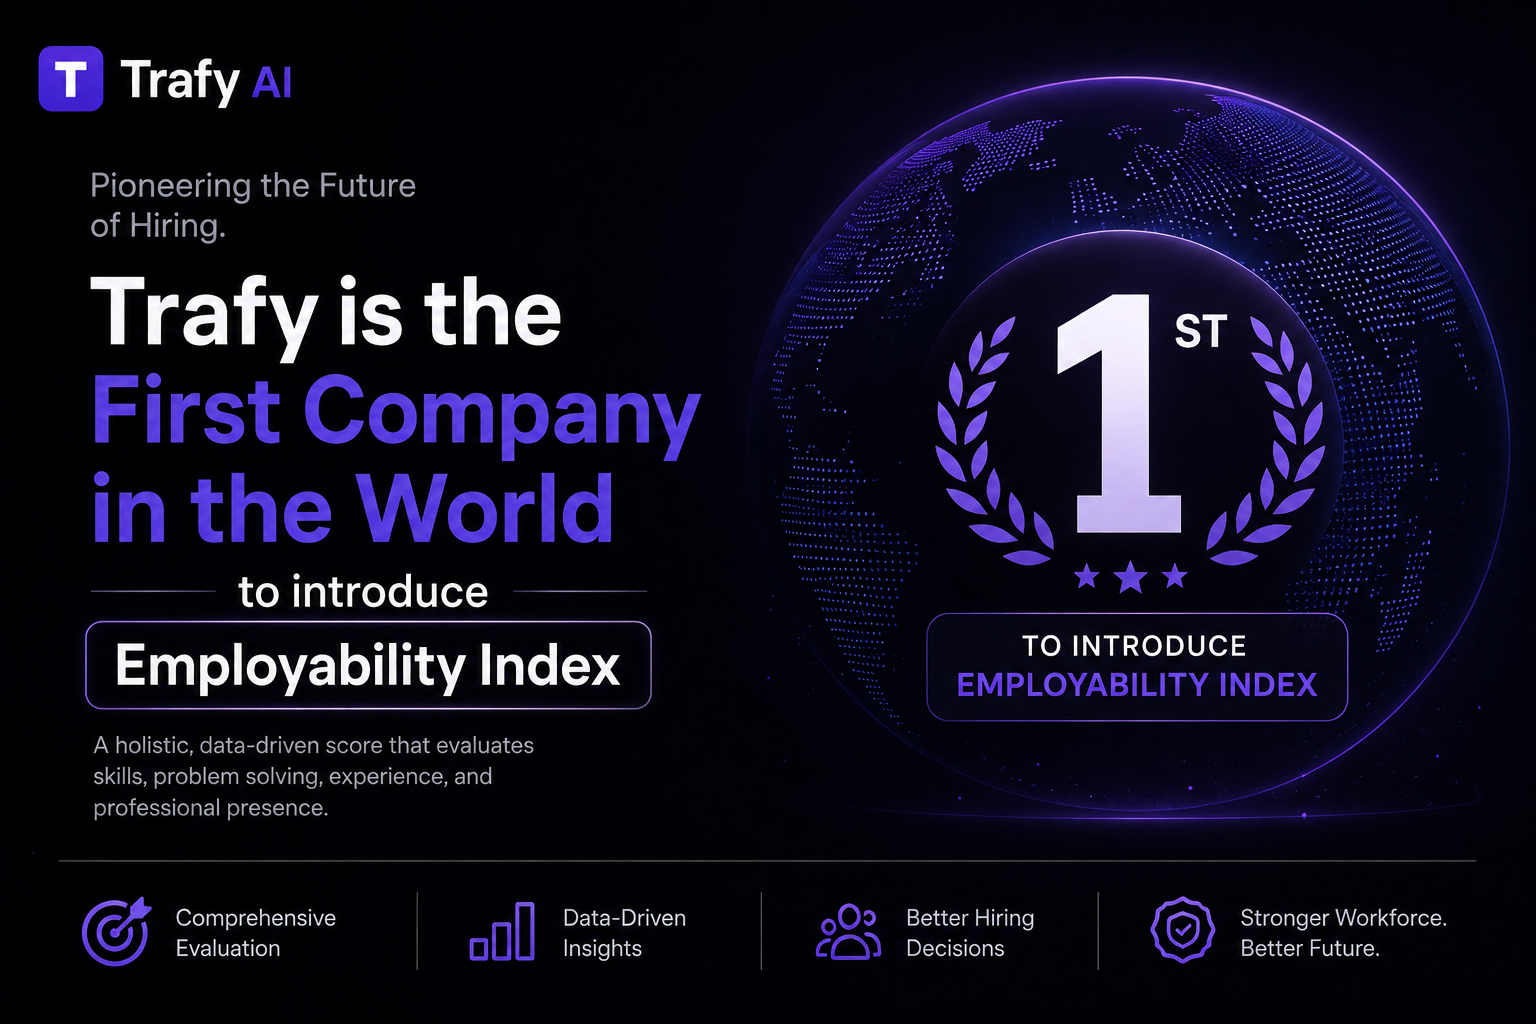
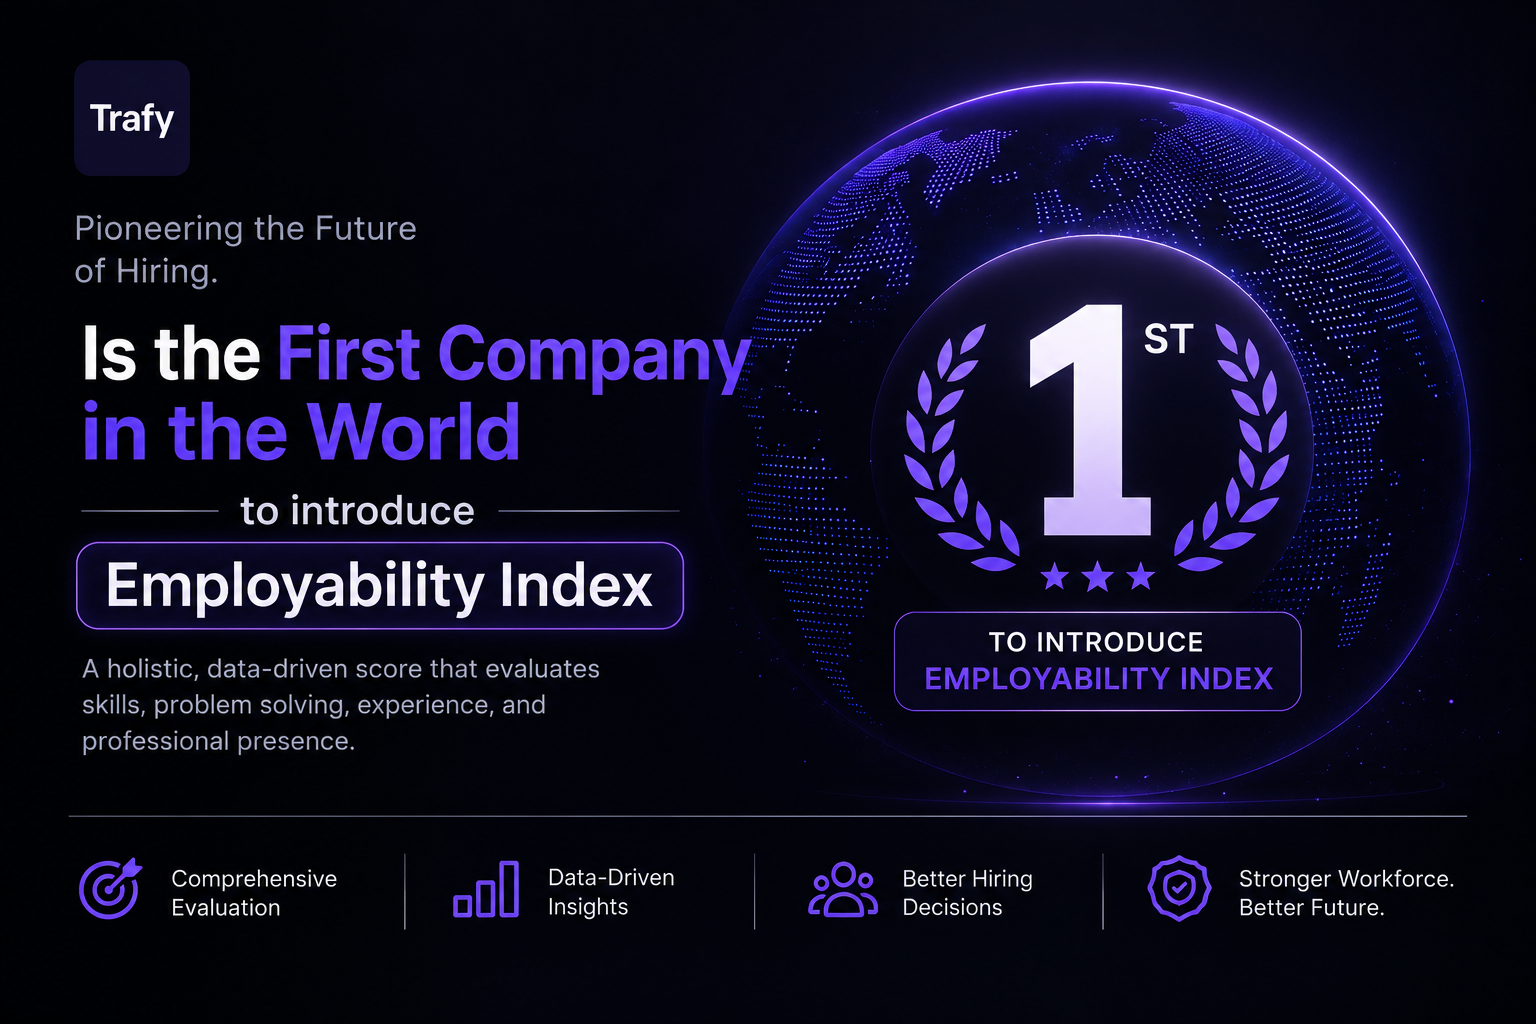
.

Changed region(s): [[0.0, 0.0312, 1.0, 0.9688], [0.5312, 0.8438, 0.6875, 0.9375], [0.2812, 0.8438, 0.4375, 0.9375]]

diff --git a/css/style.css b/css/style.css
@@ -289,9 +289,9 @@ section[id]{scroll-margin-top:88px}
 @media (max-width:900px){
   .hero{position:relative;height:auto;min-height:100vh;padding:130px 0 40px}
   .hero__grid{grid-template-columns:1fr;gap:32px}
-  .hero__right{align-items:flex-start}
-  .hero__strip{overflow-x:auto;max-width:100%;padding-bottom:6px}
-  .hero__thumb,.hero__thumb--active{width:96px}
+  .hero__right{align-items:stretch;width:100%}
+  .hero__strip{width:100%}
+  .hero__thumb,.hero__thumb--active{width:100%;height:auto;aspect-ratio:3/2}
 }
 @media (max-width:560px){
   .hero__actions{flex-direction:column;align-items:stretch}
@@ -394,7 +394,7 @@ section:not(.hero):not(.funding){padding:68px 0}
 
 .bento{
   position:relative;z-index:1;
-  display:grid;grid-template-columns:repeat(4,1fr);grid-template-rows:200px 180px;gap:16px;
+  display:grid;grid-template-columns:repeat(4,1fr);grid-template-rows:minmax(200px,auto) minmax(180px,auto);gap:16px;
   grid-template-areas:
     "grants vc students startups"
     "grants ctc ctc startups";
@@ -468,7 +468,7 @@ section:not(.hero):not(.funding){padding:68px 0}
 .bento__photo img{width:100%;height:100%;object-fit:cover;display:block}
 
 .bento__cell--ctc .bento__photo,
-.bento__cell--startups .bento__photo{height:200px}
+.bento__cell--startups .bento__photo{height:auto;aspect-ratio:16/9}
 
 .bento__cell--grants{gap:16px}
 .bento__cell--grants .bento__value,
@@ -481,7 +481,7 @@ section:not(.hero):not(.funding){padding:68px 0}
 
 @media (max-width:820px){
   .bento{
-    grid-template-columns:repeat(2,1fr);grid-template-rows:repeat(3,150px);
+    grid-template-columns:repeat(2,1fr);grid-template-rows:repeat(3,minmax(150px,auto));
     grid-template-areas:
       "grants vc"
       "students startups"
@@ -541,6 +541,10 @@ section:not(.hero):not(.funding){padding:68px 0}
 .news__card:hover{transform:translateY(-5px);box-shadow:var(--shadow-md)}
 .news__card-media{position:relative;aspect-ratio:16/10;overflow:hidden;background:#000}
 .news__card-media img{width:100%;height:100%;object-fit:cover}
+/* This graphic's own content runs edge-to-edge (logo top-left, badges along
+   the bottom) — crop it at its native ratio instead of the card's 16/10 so
+   nothing gets sliced off. */
+.news__card-media:has(img[src*="ei-first-in-world"]){aspect-ratio:3/2}
 
 .news__card-body{padding:18px 20px 22px}
 .news__card-tags{display:flex;gap:8px;margin-bottom:14px}
@@ -605,7 +609,7 @@ section:not(.hero):not(.funding){padding:68px 0}
 
 /* Image bleeds to fill the entire right half of the section, edge to edge */
 .practice__media{position:absolute;inset:0;left:52%;z-index:0}
-.practice__media img{width:100%;height:100%;object-fit:cover}
+.practice__media img{width:100%;height:100%;object-fit:cover;object-position:top}
 .practice__media-scrim{
   position:absolute;inset:0;
   background:linear-gradient(90deg,var(--bg-alt) 0%,transparent 14%);
@@ -755,7 +759,7 @@ section:not(.hero):not(.funding){padding:68px 0}
   width:100%;margin:0 0 16px;border-radius:16px;overflow:hidden;
   border:1px solid var(--border-strong);box-shadow:0 24px 50px -18px rgba(0,0,0,.6);
 }
-.success__photo img{width:100%;height:340px;object-fit:cover;display:block}
+.success__photo img{width:100%;aspect-ratio:16/9;object-fit:cover;display:block}
 .success__photo figcaption{
   padding:8px 10px;font-size:10.5px;font-weight:700;color:var(--text-dim);
   background:var(--surface);letter-spacing:.02em;
@@ -983,6 +987,7 @@ section:not(.hero):not(.funding){padding:68px 0}
 .article__title{font-size:clamp(26px,3.4vw,38px);max-width:820px;margin-bottom:20px}
 .article__media{border-radius:var(--radius-lg);overflow:hidden;margin-bottom:22px;box-shadow:var(--shadow-md);max-width:900px}
 .article__media img{width:100%;display:block;aspect-ratio:16/9;object-fit:cover}
+.article__media img[src*="ei-first-in-world"]{aspect-ratio:3/2}
 .article__body{max-width:680px;display:flex;flex-direction:column;gap:14px}
 .article__body p{color:var(--text-dim);font-size:16.5px;line-height:1.75}
 .article__divider{border:none;border-top:1px solid var(--border);margin:0}
@@ -1087,7 +1092,7 @@ section:not(.hero):not(.funding){padding:68px 0}
   margin-top:24px;border-radius:var(--radius-lg);overflow:hidden;
   border:1px solid var(--border-strong);box-shadow:0 24px 50px -18px rgba(0,0,0,.6);
 }
-.ei-why__photo img{width:100%;height:240px;object-fit:cover;display:block}
+.ei-why__photo img{width:100%;aspect-ratio:3/2;object-fit:cover;display:block}
 .ei-why__list{display:grid;grid-template-columns:1fr 1fr;gap:24px}
 .ei-why__item h4{font-family:var(--ff-heading);font-weight:700;font-size:15.5px;margin-bottom:6px}
 .ei-why__item p{color:var(--text-dim);font-size:14px;line-height:1.6}
@@ -1149,7 +1154,7 @@ section:not(.hero):not(.funding){padding:68px 0}
   margin-bottom:16px;
 }
 .ts-path__phase-photo{
-  display:block;width:100%;height:130px;object-fit:cover;border-radius:12px;margin-bottom:16px;
+  display:block;width:100%;aspect-ratio:4/3;object-fit:cover;border-radius:12px;margin-bottom:16px;
 }
 .ts-path__steps{display:flex;flex-direction:column;gap:16px}
 .ts-path__steps li{
@@ -1192,7 +1197,7 @@ section:not(.hero):not(.funding){padding:68px 0}
   border-radius:var(--radius-lg);overflow:hidden;border:1px solid var(--border-strong);
   box-shadow:0 24px 50px -18px rgba(0,0,0,.6);
 }
-.ts-included__photo img{width:100%;height:320px;object-fit:cover;display:block}
+.ts-included__photo img{width:100%;aspect-ratio:3/2;object-fit:cover;display:block}
 .ts-included__body .section-title{margin-bottom:14px}
 .ts-included__copy{color:var(--text-dim);font-size:15.5px;line-height:1.6;margin-bottom:22px}
 .ts-included__list{display:grid;grid-template-columns:1fr 1fr;gap:14px}
@@ -1362,14 +1367,14 @@ section:not(.hero):not(.funding){padding:68px 0}
 .c26-cta__copy{color:var(--text-dim);font-size:15px;margin-bottom:24px}
 .c26-cta__actions{display:flex;justify-content:center;gap:14px;flex-wrap:wrap}
 
-/* $10K Challenge — full-bleed banner using a real event photo, then a
+/* $10K Challenge, full-bleed banner using a real event photo, then a
    supporting section showing the live classes that actually back it. */
 .c26-challenge{
   position:relative;min-height:420px;display:flex;align-items:center;
   overflow:hidden;text-align:center;
 }
 .c26-challenge__media{position:absolute;inset:0;z-index:0}
-.c26-challenge__media img{width:100%;height:100%;object-fit:cover;display:block}
+.c26-challenge__media img{width:100%;height:100%;object-fit:cover;object-position:top;display:block}
 .c26-challenge__scrim{
   position:absolute;inset:0;
   background:linear-gradient(0deg,rgba(5,5,10,.92) 0%,rgba(5,5,10,.55) 55%,rgba(5,5,10,.35) 100%);
@@ -1388,7 +1393,7 @@ section:not(.hero):not(.funding){padding:68px 0}
 .c26-challenge-classes__card{
   border-radius:var(--radius-lg);overflow:hidden;border:1px solid var(--border);background:var(--surface);
 }
-.c26-challenge-classes__card img{width:100%;height:220px;object-fit:cover;display:block}
+.c26-challenge-classes__card img{width:100%;aspect-ratio:3/2;object-fit:cover;display:block}
 .c26-challenge-classes__card figcaption{padding:16px 18px}
 .c26-challenge-classes__card strong{display:block;font-family:var(--ff-heading);font-weight:700;font-size:15px;margin-bottom:5px}
 .c26-challenge-classes__card span{display:block;font-size:12.5px;color:var(--text-dim);line-height:1.55}
@@ -1396,7 +1401,7 @@ section:not(.hero):not(.funding){padding:68px 0}
 .c26-challenge-classes__photo{
   border-radius:var(--radius-lg);overflow:hidden;border:1px solid var(--border);position:relative;
 }
-.c26-challenge-classes__photo img{width:100%;height:300px;object-fit:cover;display:block}
+.c26-challenge-classes__photo img{width:100%;aspect-ratio:2/1;object-fit:cover;display:block}
 .c26-challenge-classes__photo figcaption{
   position:absolute;left:0;right:0;bottom:0;padding:14px 18px;
   background:linear-gradient(0deg,rgba(0,0,0,.75),transparent);

diff --git a/index.html b/index.html
@@ -176,7 +176,7 @@
           <span class="bento__value">7+</span>
           <span class="bento__label"><strong>Startups Incubated</strong><small>straight out of the cohort</small></span>
           <div class="bento__photo">
-            <img src="assets/img/bento-startups.webp" alt="Trafy AI Incubation — builders reviewing an idea-to-impact roadmap" loading="lazy" decoding="async">
+            <img src="assets/img/bento-startups.webp" alt="Trafy AI Incubation, builders reviewing an idea-to-impact roadmap" loading="lazy" decoding="async">
           </div>
         </div>
         <div class="bento__cell bento__cell--ctc reveal">
@@ -228,7 +228,7 @@
 
       <a class="news__card reveal" href="blog.html#employability-index-first">
         <div class="news__card-media">
-          <img src="assets/img/ei-first-in-world.webp" alt="Trafy AI: the first company in the world to introduce the Employability Index" loading="lazy" decoding="async">
+          <img src="assets/img/ei-first-in-world-2026.webp" alt="Trafy: the first company in the world to introduce the Employability Index" loading="lazy" decoding="async">
         </div>
         <div class="news__card-body">
           <div class="news__card-tags">
@@ -242,7 +242,7 @@
 
       <a class="news__card reveal" href="blog.html#week-3-mvp-sprint">
         <div class="news__card-media">
-          <img src="assets/img/founders-meet.webp" alt="Trafy builders working through Week 3 of the cohort" loading="lazy" decoding="async">
+          <img src="assets/img/founders-meet-2025.webp" alt="Trafy Cohort '25 Founders Meet panel discussion" loading="lazy" decoding="async">
         </div>
         <div class="news__card-body">
           <div class="news__card-tags">
@@ -409,8 +409,8 @@
       <p class="eyebrow">Cohort &apos;25</p>
       <h2 class="section-title">Hear From Your Alumni</h2>
       <figure class="success__photo">
-        <img src="assets/img/pitch-2.webp" alt="Trafy founders presenting at Cohort '25 Pitch Day" loading="lazy" decoding="async">
-        <figcaption>Cohort &apos;25 · Pitch Day</figcaption>
+        <img src="assets/img/trafy-alumni.webp" alt="A grid of Trafy alumni portraits from across cohorts" loading="lazy" decoding="async">
+        <figcaption>Trafy&apos;s Alumni · People &times; Projects &times; Possibilities</figcaption>
       </figure>
       <p class="success__subhead">Real builders, real outcomes. Here&apos;s what Cohort &apos;25 alumni have to say about shipping, learning and growing with Trafy, straight from Pitch Day, in their own words.</p>
     </div>

diff --git a/blog.html b/blog.html
@@ -96,7 +96,7 @@
       </div>
       <h2 class="article__title">Trafy becomes the first company in the world to introduce an Employability Index</h2>
       <div class="article__media">
-        <img src="assets/img/ei-first-in-world.webp" alt="Trafy AI: the first company in the world to introduce the Employability Index" loading="lazy" decoding="async">
+        <img src="assets/img/ei-first-in-world-2026.webp" alt="Trafy: the first company in the world to introduce the Employability Index" loading="lazy" decoding="async">
       </div>
       <div class="article__body">
         <p>Trafy has introduced the Employability Index, a single, verifiable score that measures how ready a candidate actually is to contribute from day one, making it the first company anywhere to formalise hiring readiness into one composite number instead of a resume, a college name and a gut-feel interview.</p>
@@ -115,7 +115,7 @@
       </div>
       <h2 class="article__title">Inside Week 3: how five teams shipped MVPs in four days</h2>
       <div class="article__media">
-        <img src="assets/img/founders-meet.webp" alt="Trafy builders working through Week 3 of the cohort" loading="lazy" decoding="async">
+        <img src="assets/img/founders-meet-2025.webp" alt="Trafy Cohort '25 Founders Meet panel discussion" loading="lazy" decoding="async">
       </div>
       <div class="article__body">
         <p>By the start of Week 3, every team in Cohort &apos;25 had a validated problem and a rough plan. What they didn't have yet was a product anyone could actually use, and they had four days to fix that.</p>

diff --git a/employability-index.html b/employability-index.html
@@ -66,7 +66,7 @@
       <p class="ei-hero__copy">A single, verifiable score that tells hiring teams how ready you are to contribute from day one, built from your core fundamentals, how you solve problems under pressure, and the real work you&apos;ve already shipped.</p>
       <div class="ei-hero__cta">
         <a href="index.html#apply" class="btn btn--primary btn--lg">Take Assessment to Check Your Employability Index</a>
-        <p class="ei-hero__cta-note">The assessment runs as part of the Trafy Employability Path — apply to Cohort &apos;26 to take it.</p>
+        <p class="ei-hero__cta-note">The assessment runs as part of the Trafy Employability Path. Apply to Cohort &apos;26 to take it.</p>
       </div>
     </div>
     <figure class="ei-hero__visual">
